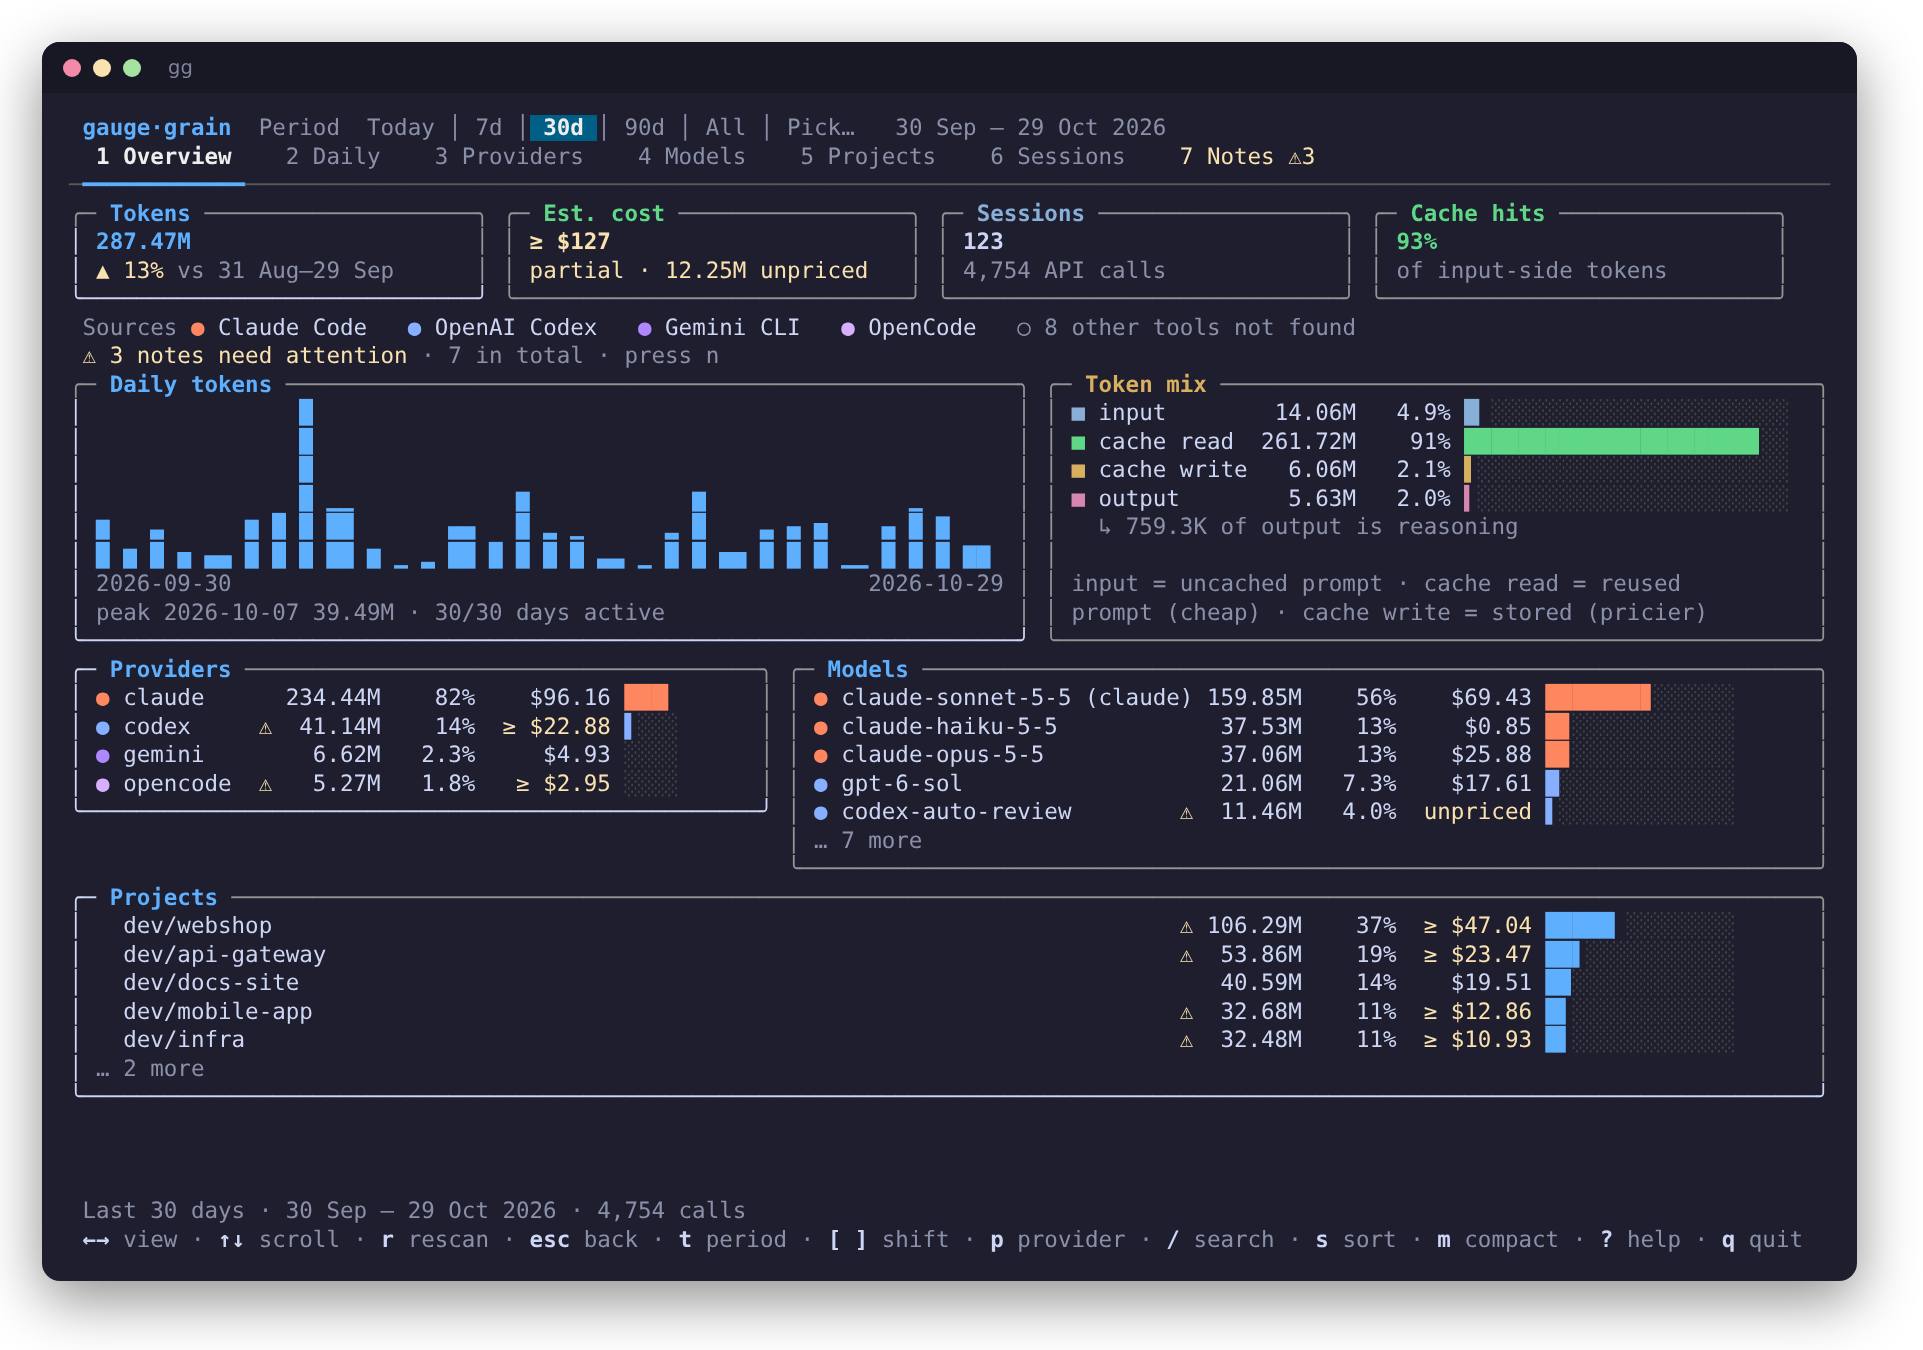
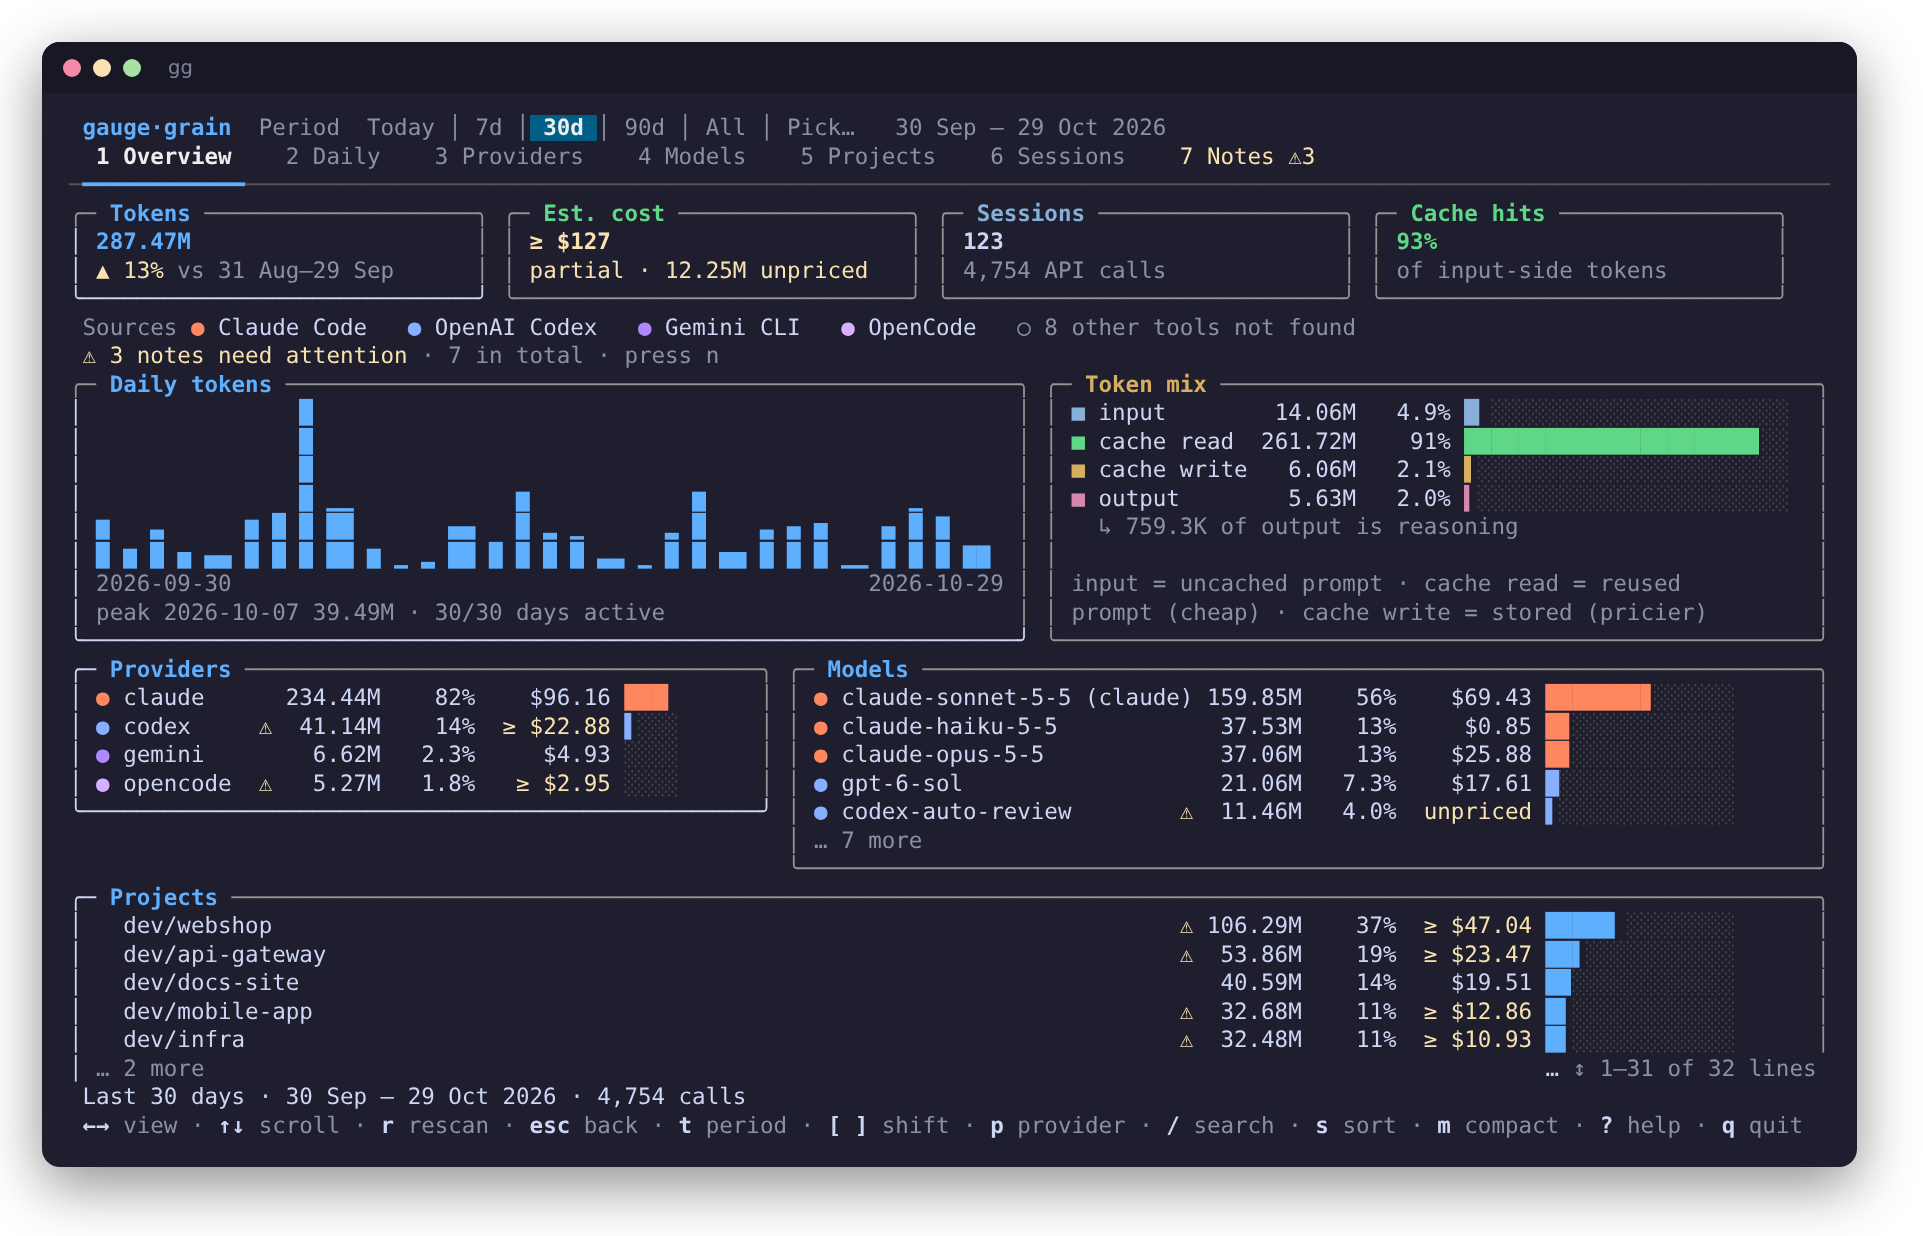
README: full-width screenshots where text must be readable; put the rest in the guide

Changed region(s): [[0.0312, 0.0307, 0.9672, 0.9531]]

diff --git a/README.md b/README.md
@@ -33,22 +33,22 @@ gg notes                    # how far to trust the numbers
 
 ## A quick tour
 
+**Daily** — the selected (or hovered) day lights up in the chart; click a bar to drill into that day.
+
+<p align="center"><img src="docs/img/daily.png" alt="Daily view" width="900"></p>
+
+**Models, projects, sessions** — ranked, with a details panel for the selected row.
+
+<p align="center"><img src="docs/img/models.png" alt="Models view with details panel" width="900"></p>
+
 <table>
 <tr>
-<td width="50%"><img src="docs/img/daily.png" alt="Daily view"><br><sub><b>Daily</b> — the selected or hovered day lights up in the chart.</sub></td>
-<td width="50%"><img src="docs/img/models.png" alt="Models view with details panel"><br><sub><b>Models, projects, sessions</b> — ranked, with a details panel.</sub></td>
-</tr>
-<tr>
-<td><img src="docs/img/period.png" alt="Period picker"><br><sub><b>Periods</b> — presets, <code>2026-10</code>, <code>14d</code>, ranges; <code>[</code> <code>]</code> move through time.</sub></td>
-<td><img src="docs/img/notes.png" alt="Notes view"><br><sub><b>Notes</b> — every caveat in one place: estimates, unpriced models, sources, prices.</sub></td>
-</tr>
-<tr>
-<td><img src="docs/img/compact.png" alt="Compact summary"><br><sub><b>Compact</b> — press <code>m</code>: just what matters.</sub></td>
-<td><img src="docs/img/narrow.png" alt="Narrow terminal" width="60%"><br><sub><b>Any terminal size</b> — it adapts down to 40×8.</sub></td>
+<td width="50%"><img src="docs/img/period.png" alt="Period picker"><br><sub><b>Periods</b> — presets, <code>2026-10</code>, <code>14d</code>, ranges; <code>[</code> <code>]</code> move through time.</sub></td>
+<td width="50%"><img src="docs/img/compact.png" alt="Compact summary"><br><sub><b>Compact</b> — press <code>m</code>: only what matters.</sub></td>
 </tr>
 </table>
 
-<p align="center"><img src="docs/img/cli-compact.png" alt="gg report --compact" width="760"></p>
+More: the **Notes** view (every caveat in one place), narrow terminals and the report are in the [user guide](docs/GUIDE.md).
 
 ## Supported tools
 

diff --git a/docs/GUIDE.md b/docs/GUIDE.md
@@ -82,6 +82,8 @@ Period  Today │ 7d │ [30d] │ 90d │ All │ Pick…   30 Sep – 29 Oct 2
 
 On the command line the equivalent is `--days`, `--from/--to` and `--all`.
 
+<p align="center"><img src="img/period.png" alt="The period picker" width="760"></p>
+
 ## The dashboard (TUI)
 
 `gg` opens a dashboard with seven views:
@@ -145,6 +147,9 @@ top provider claude 82%  ·  model claude-sonnet-5-5 56%  ·  project dev/websho
 | `gg report --compact` · `-c` | prints just these lines |
 | `GG_COMPACT=1` | makes compact the default for both |
 
+<p align="center"><img src="img/compact.png" alt="Compact mode in the dashboard" width="760"></p>
+<p align="center"><img src="img/cli-compact.png" alt="gg report --compact" width="760"></p>
+
 ## The report
 
 `gg report` prints the same data without a UI: headline numbers, token mix, a daily trend, and the top providers,
@@ -158,6 +163,8 @@ They are generated from what is actually in your totals: the "estimate, not a bi
 **experimental** providers whose data is included, tools found but not parsed, unreadable files, a cancelled (partial)
 scan, per-provider fields that are not always reported, malformed/duplicate record counts, and the source and date of
 every price. Warnings come first.
+
+<p align="center"><img src="img/notes.png" alt="The Notes view" width="900"></p>
 
 ## Configuration
 
@@ -181,6 +188,8 @@ paths in use.
 - The dashboard needs at least **40×8**; below that it asks for a bigger window instead of drawing garbage. As the
   terminal narrows it drops columns, shortens tab names, hides the details panel and finally shows one tab at a time.
   Resizing is live.
+
+<p align="center"><img src="img/narrow.png" alt="The dashboard in a 62-column terminal" width="420"></p>
 
 ## Cancelling and the cache
 
